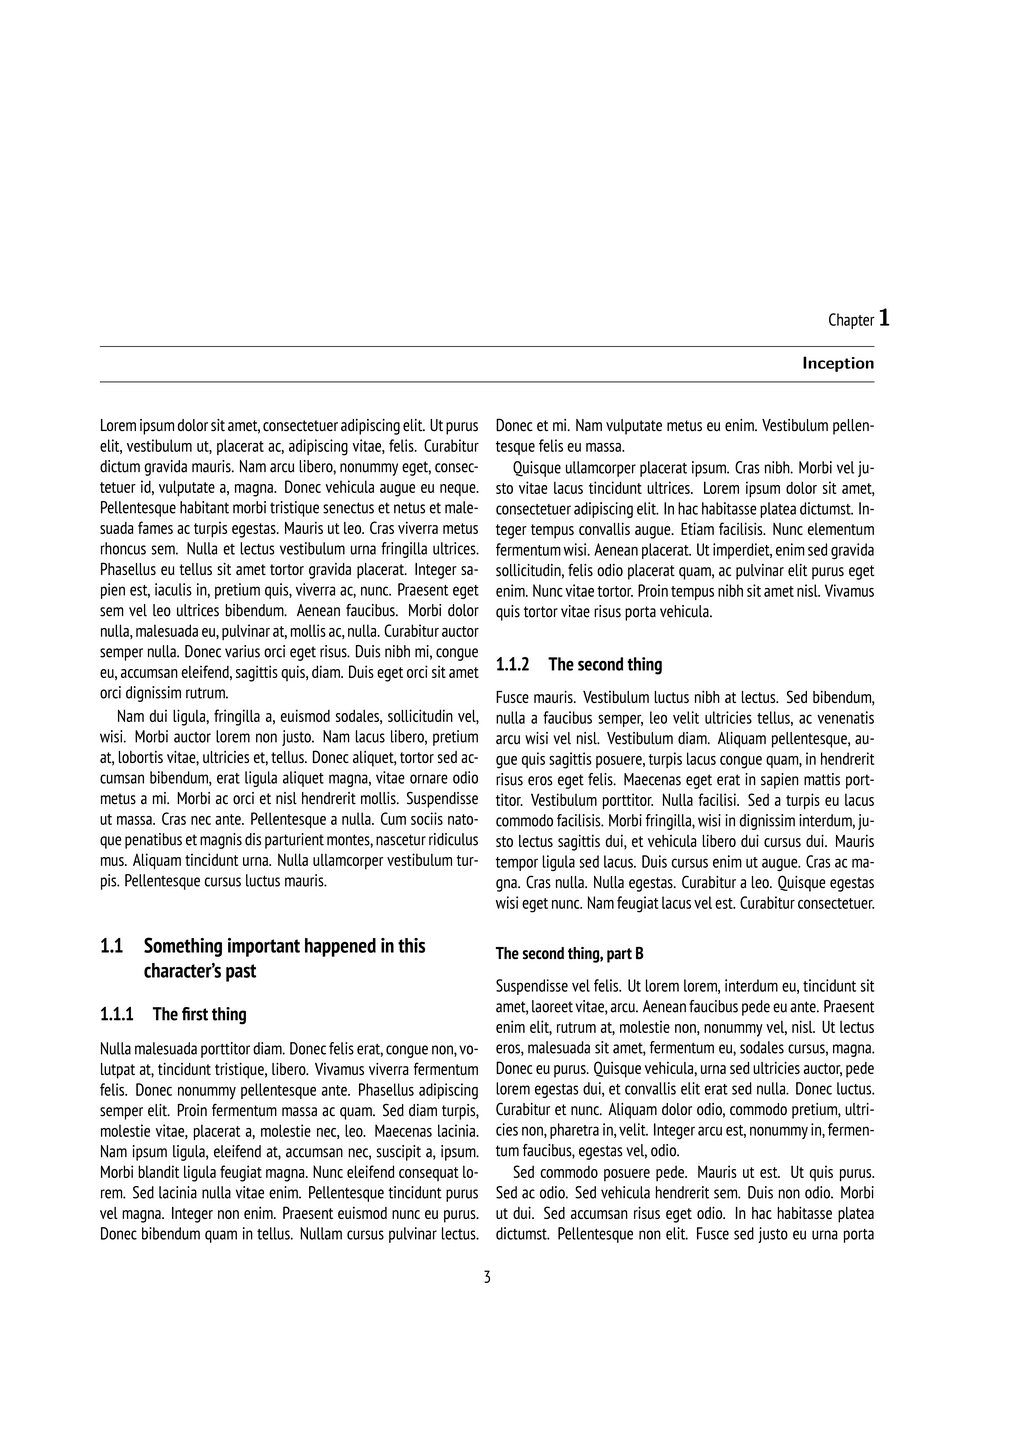
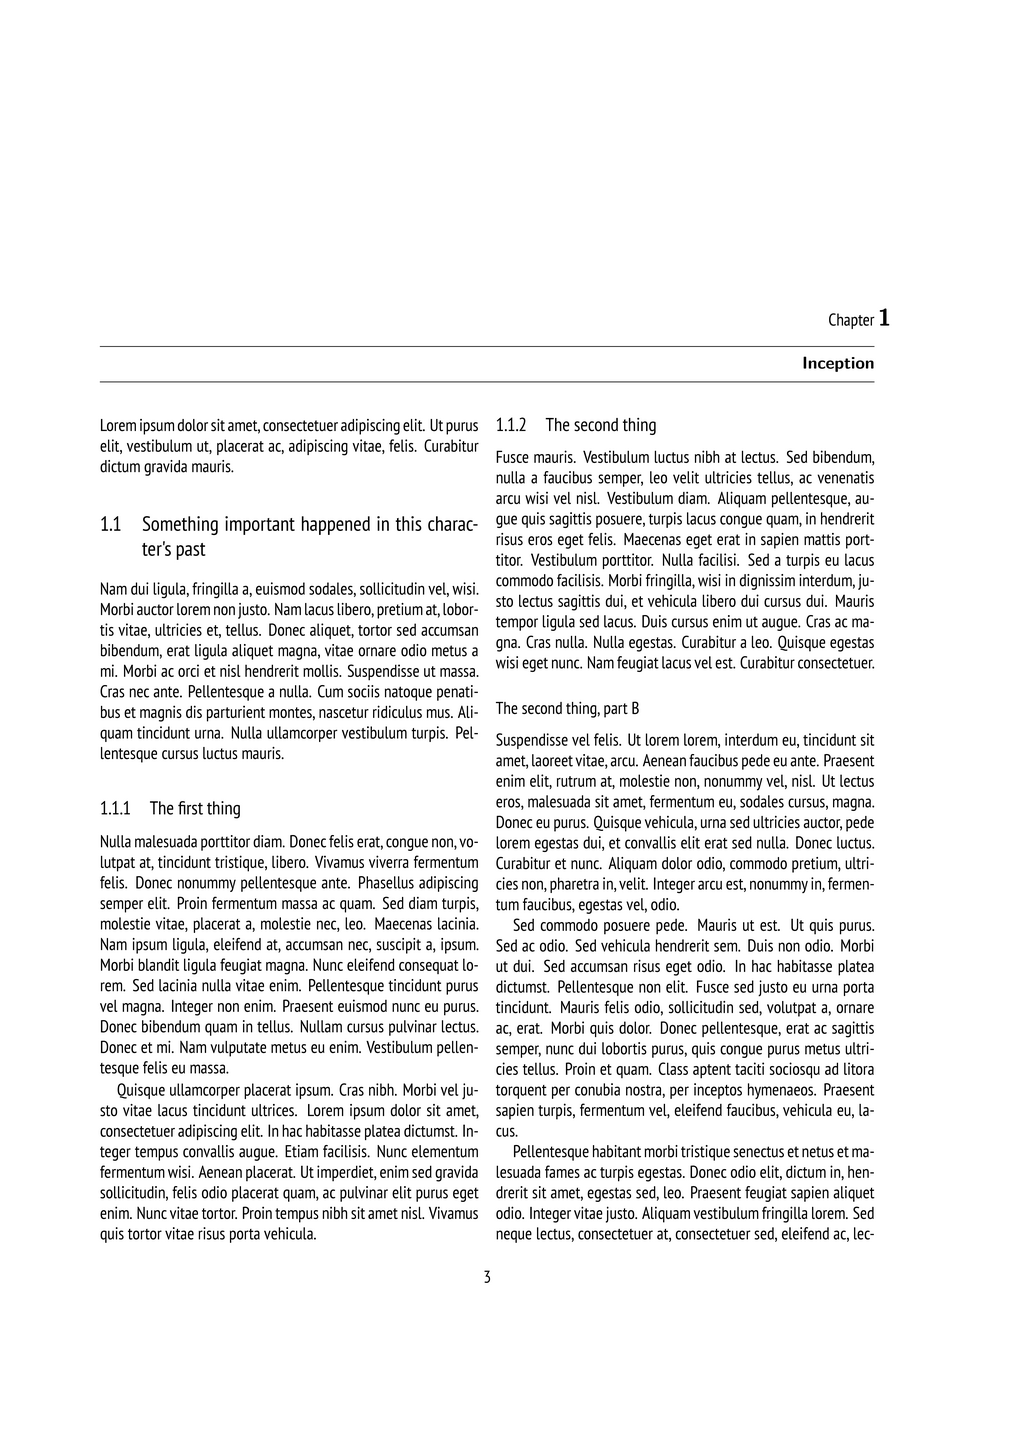
feat(adding solomon style): added a new style

Changed region(s): [[0.0938, 0.2797, 0.875, 0.8702]]

diff --git a/tab-character-description.tex b/tab-character-description.tex
@@ -6,29 +6,29 @@
             \parbox[t]{1em}{\vspace{0pt}\includegraphics[width=4cm]{images/portrait}} &
             \begin{tabu}{XX[2]}
                 \toprule
-                \textbf{Name}                & \textbf{\Large \emph{fubar}} \\
-                \textbf{Also known as\ldots} &                              \\
-                \textbf{Personality}         &                              \\
+                \textbf{Name}                & \textbf{\Large\rpgprimaryfont{fubar}} \\
+                \textbf{Also known as\ldots} &                                       \\
+                \textbf{Personality}         &                                       \\
                 \midrule
-                \textbf{Gender}              &                              \\
-                \textbf{Height}              &                              \\
-                \textbf{Built}               &                              \\
+                \textbf{Gender}              &                                       \\
+                \textbf{Height}              &                                       \\
+                \textbf{Built}               &                                       \\
                 \midrule
-                \textbf{Hair}                &                              \\
-                \textbf{Eye}                 &                              \\
-                \textbf{Ethnicity}           &                              \\
+                \textbf{Hair}                &                                       \\
+                \textbf{Eye}                 &                                       \\
+                \textbf{Ethnicity}           &                                       \\
                 \midrule
-                \textbf{Nature}              &                              \\
-                \textbf{Demeanour}           &                              \\
-                \textbf{Idiosyncrasies}      &                              \\
+                \textbf{Nature}              &                                       \\
+                \textbf{Demeanour}           &                                       \\
+                \textbf{Idiosyncrasies}      &                                       \\
                 \midrule
-                \textbf{Phobia}              &                              \\
-                \textbf{Fears}               &                              \\
-                \textbf{Hopes}               &                              \\
+                \textbf{Phobia}              &                                       \\
+                \textbf{Fears}               &                                       \\
+                \textbf{Hopes}               &                                       \\
                 \midrule
-                \textbf{Summary}             &                              \\
+                \textbf{Summary}             &                                       \\
                 \midrule
-            \end{tabu}       \\
+            \end{tabu}        \\
         \end{tabu}
     \end{framed}
     \caption{Character quick summary.}

diff --git a/common/character-background-content.tex b/common/character-background-content.tex
@@ -40,13 +40,11 @@
 
 \chapter{Inception}
 
-\input{tab-character-description.tex}
-
-\lipsum[1]
-
-\lipsum[2]
+\lipsum[][1-3]
 
 \section{Something important happened in this character's past}
+
+\lipsum[2]
 
 \subsection{The first thing}
 
@@ -62,9 +60,11 @@
 
 \lipsum[6-9]
 
-\part{The Full Story}
+\chapter{Character Card}
 
-\chapter{The story so far\ldots}
+\input{tab-character-description.tex}
+
+\chapter{An NPC Card}
 
 \input{tab-npc.tex}
 

diff --git a/solomon-a5.tex b/solomon-a5.tex
@@ -1,7 +1,7 @@
 %!TEX TS-program = xelatex
 
 % http://www.ctan.org/pkg/memoir
-\documentclass[a4paper,twoside,twocolumn,10pt]{memoir}
+\documentclass[a5paper,hidelinks,twoside,onecolumn,11pt]{memoir}
 
-\usepackage[modern]{rpg}
+\usepackage[solomon]{rpg}
 \input{common/character-background-content}

diff --git a/solomon.tex b/solomon.tex
@@ -1,7 +1,7 @@
 %!TEX TS-program = xelatex
 
 % http://www.ctan.org/pkg/memoir
-\documentclass[a4paper,twoside,twocolumn,10pt]{memoir}
+\documentclass[a4paper,twoside,onecolumn,10pt]{memoir}
 
-\usepackage[modern]{rpg}
+\usepackage[solomon]{rpg}
 \input{common/character-background-content}

diff --git a/eldritch.tex b/eldritch.tex
@@ -1,7 +1,7 @@
 %!TEX TS-program = xelatex
 
 % http://www.ctan.org/pkg/memoir
-\documentclass[a4paper,twoside,twocolumn,10pt,bringhurst]{memoir}
+\documentclass[a4paper,twoside,onecolumn,10pt]{memoir}
 
 \usepackage[eldritch]{rpg}
 \input{common/character-background-content}

diff --git a/README.md b/README.md
@@ -42,3 +42,8 @@ We can have several styles, in both A4 and a5 variants.
 
 ![Eldritch style](showcase/eldritch.png?raw=true "Eldritch style")
 ![Eldritch style, A5](showcase/eldritch-a5.png?raw=true "Eldritch style, A5 paper")
+
+### Key of Solomon
+
+![Key of Solomon style](showcase/solomon.png?raw=true "Key of Solomon style")
+![Key of Solomon style, A5](showcase/solomon-a5.png?raw=true "Key of Solomon style, A5 paper")
